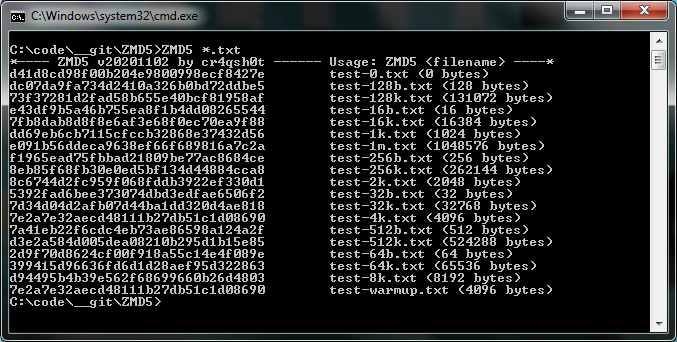
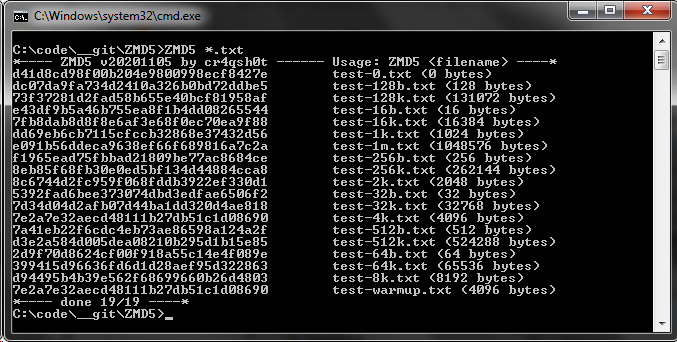
minor improvements

diff --git a/ZMD5_Main.c b/ZMD5_Main.c
@@ -6,24 +6,25 @@
 #include <stdlib.h>
 #include "ZMD5.h"
 
-#ifdef _WIN32
+#if defined(_WIN32) || defined(_WIN32) || defined(WIN32) || defined(__WIN64) || defined(_WIN64) || defined(WIN64)
 #include <io.h>
 #include <fcntl.h>
 #define ZMD5_BINARY_STDIN() setmode(STDIN_FILENO, O_BINARY)
 #else
-#define ZMD5_BINARY_STDIN
+#define ZMD5_BINARY_STDIN()
 #endif
 
 #define ZMD5_MSG_NAME "ZMD5"
+#define ZMD5_MSG_VERSION "20201105"
+#define ZMD5_MSG_AUTHOR "cr4qsh0t"
 #define ZMD5_MSG_DECOR "*---- "
 #define ZMD5_MSG_DECOM " ------ "
 #define ZMD5_MSG_DECOL " ----*"
-#define ZMD5_MSG_VERSION "20201102"
-#define ZMD5_MSG_AUTHOR "cr4qsh0t"
 #define ZMD5_MSG_HELP "Usage: " ZMD5_MSG_NAME " <filename>"
 #define ZMD5_MSG_MOTD ZMD5_MSG_DECOR ZMD5_MSG_NAME " v" ZMD5_MSG_VERSION " by " ZMD5_MSG_AUTHOR ZMD5_MSG_DECOM ZMD5_MSG_HELP ZMD5_MSG_DECOL
-#define ZMD5_MSG_ERR_NOMEM "error: cannot allocate buffer"
-#define ZMD5_MSG_ERR_ISDIR "error: cannot open file"
+#define ZMD5_MSG_DONE ZMD5_MSG_DECOR "done %d/%d" ZMD5_MSG_DECOL
+#define ZMD5_MSG_NOMEM ZMD5_MSG_DECOM "error: cannot allocate buffer"
+#define ZMD5_MSG_NOFILE ZMD5_MSG_DECOM "error: cannot open file"
 
 #define ZMD5_BUFFER_SIZE 16777216
 unsigned char* gBuffer;
@@ -31,36 +32,37 @@ unsigned char* gBuffer;
 void gZMD5_Hash(FILE* iFile) {
     size_t lBytesRead;
     ZMD5_Init();
-    do {
-        lBytesRead = fread(gBuffer, 1, ZMD5_BUFFER_SIZE, iFile);
-        ZMD5_Feed((const unsigned char*)gBuffer, lBytesRead);
-    } while (lBytesRead == ZMD5_BUFFER_SIZE);
+    do {ZMD5_Feed(gBuffer, (lBytesRead = fread(gBuffer, 1, ZMD5_BUFFER_SIZE, iFile)));} while (lBytesRead == ZMD5_BUFFER_SIZE);
     ZMD5_Finish();
 }
-int main(int argc, char *argv[]) {
-    fprintf(stderr, ZMD5_MSG_MOTD);
+int main(int iCount, char** iValues) {
+    fprintf(stderr, ZMD5_MSG_MOTD "\n");
     if ((gBuffer = (unsigned char*)malloc(ZMD5_BUFFER_SIZE)) != NULL) {
-        if (argc > 1) {
-            for (unsigned int i = 1; i < argc; i++) {
-                if (argv[i] != NULL) {
+        if (iCount > 1) {
+            int lError = 0;
+            for (int i = 1; i < iCount; i++) {
+                if (iValues[i] != NULL) {
                     FILE* lFile;
-                    if ((lFile =  fopen(argv[i], "rb")) != NULL) {
+                    if ((lFile =  fopen(iValues[i], "rb")) != NULL) {
                         gZMD5_Hash(lFile);
-                        printf("\n%s\t%s (%I64u bytes)", ZMD5_Digest(), argv[i], ZMD5_Size());
+                        printf("%s\t%s (%I64u bytes)\n", ZMD5_Digest(), iValues[i], ZMD5_Size());
                         fclose(lFile);
                     } else {
-                        fprintf(stderr, "\n" ZMD5_MSG_ERR_ISDIR " \"%s\"", argv[i]);
+                        lError++;
+                        fprintf(stderr, ZMD5_MSG_NOFILE " \"%s\"\n", iValues[i]);
                     }
                 }
             }
+            fprintf(stderr, ZMD5_MSG_DONE, iCount - 1 - lError, iCount - 1);
         } else {
             ZMD5_BINARY_STDIN();
             gZMD5_Hash(stdin);
-            printf("\n%s\t%s (%I64u bytes)", ZMD5_Digest(), "<stdin>", ZMD5_Size());
+            printf("%s\t%s (%I64u bytes)\n", ZMD5_Digest(), "<stdin>", ZMD5_Size());
+            fprintf(stderr, ZMD5_MSG_DONE, 1, 1);
         }
         free(gBuffer);
     } else {
-        fprintf(stderr, "\n" ZMD5_MSG_ERR_NOMEM);
+        fprintf(stderr, ZMD5_MSG_NOMEM "\n");
     }
     return 0;
 }

diff --git a/ZMD5.c b/ZMD5.c
@@ -159,9 +159,7 @@ void ZMD5_Finish(void) {
     ZMD5_Feed(rZMD5_Padding, lPaddingLength);
     ZMD5_Feed((const unsigned char*)rZMD5_Size, 8);
 }
-unsigned long long ZMD5_Size(void) {
-    return (((unsigned long long)rZMD5_Size[1] << 29) | (rZMD5_Size[0] >> 3));
-}
+unsigned long long ZMD5_Size(void) {return (((unsigned long long)rZMD5_Size[1] << 29) | (rZMD5_Size[0] >> 3));}
 const char* ZMD5_Digest(void) {
     for (unsigned int i = 0; i < 4; i++) {
         for (unsigned int ii = 0; ii < 4; ii++) {
@@ -174,30 +172,6 @@ const char* ZMD5_Digest(void) {
     }
     rZMD5_Digest[32] = '\0';
     return rZMD5_Digest;
-}
-const char* ZMD5_HashData(const unsigned char* iData, size_t iLength) {
-    if (iData != NULL) {
-        ZMD5_Init();
-		ZMD5_Feed(iData, iLength);
-		ZMD5_Finish();
-		return ZMD5_Digest();
-    } else {
-        rZMD5_Digest[0] = '\0';
-        return rZMD5_Digest;
-    }
-}
-const char* ZMD5_HashText(const char* iText) {
-    if (iText != NULL) {
-        size_t lLength = -1;
-        while (iText[++lLength]);
-        ZMD5_Init();
-		ZMD5_Feed((const unsigned char*)iText, lLength);
-		ZMD5_Finish();
-		return ZMD5_Digest();
-    } else {
-        rZMD5_Digest[0] = '\0';
-        return rZMD5_Digest;
-    }
 }
 
 #endif // ZMD5_C_INCLUDED

diff --git a/ZMD5.h b/ZMD5.h
@@ -15,8 +15,6 @@ void ZMD5_Feed(const unsigned char* iData, size_t iLength);
 void ZMD5_Finish(void);
 unsigned long long ZMD5_Size(void);
 const char* ZMD5_Digest(void);
-const char* ZMD5_HashData(const unsigned char* iData, size_t iLength);
-const char* ZMD5_HashText(const char* iText);
 #ifdef __cplusplus
 }
 #endif // __cplusplus
